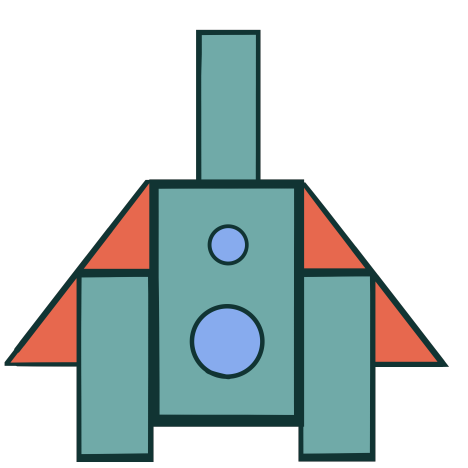
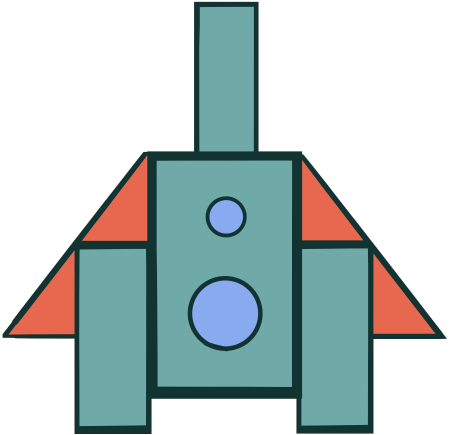
fixed scaling and other bugs

Changed region(s): [[0.0, 0.0, 0.9956, 1.0], [0.4044, 0.6276, 0.5911, 0.8368], [0.4356, 0.4483, 0.56, 0.5678]]

diff --git a/src/games/stardash/unit.ts b/src/games/stardash/unit.ts
@@ -64,41 +64,62 @@ export class Unit extends makeRenderable(GameObject, SHOULD_RENDER) {
         const jobContainer = new PIXI.Container();
         jobContainer.setParent(this.container);
 
-        this.shield = this.addSprite.shield();
-        this.shield.setParent(this.game.layers.game);
+        this.shield = this.addSprite.shield(
+            {
+
+                relativeScale: this.game.scaler * 105,
+                relativePivot: 0.5,
+            });
+        this.shield.setParent(this.game.layers.shield);
+        this.shield.tint = this.game.getPlayersColor(this.ownerID).rgbNumber();
+        this.shield.alpha = 0.6;
         this.shield.visible = false;
 
         if (state.job.id === "2") {
-            this.jobSprite = this.addSprite.corvette();
+            this.jobSprite = this.addSprite.corvette(
+                {
+                    relativePivot: 0.5,
+                });
         }
         else if (state.job.id === "3") {
-            this.jobSprite = this.addSprite.missleboat();
+            this.jobSprite = this.addSprite.missleboat(
+                {
+                    relativePivot: 0.5,
+                });
         }
         else if (state.job.id === "4") {
-            this.jobSprite = this.addSprite.martyr();
+            this.jobSprite = this.addSprite.martyr(
+                {
+                    relativePivot: 0.5,
+                });
             this.shield.visible = true;
             this.shield.x = this.container.x;
             this.shield.y = this.container.y;
         }
         else if (state.job.id === "5") {
-            this.jobSprite = this.addSprite.transport();
+            this.jobSprite = this.addSprite.transport(
+                {
+                    relativePivot: 0.5,
+                });
         }
         else if (state.job.id === "6") {
-            this.jobSprite = this.addSprite.miner();
+            this.jobSprite = this.addSprite.miner(
+                {
+                    relativePivot: 0.5,
+                });
         }
         else {
-            this.jobSprite = this.addSprite.test();
+            this.jobSprite = this.addSprite.test(
+                {
+                    relativePivot: 0.5,
+                });
         }
-        if (state.job.id === "5") {
-            this.jobSprite.scale.set(1 * .1, 1 * .1);
-        }
-        else {
-            this.jobSprite.scale.set(1 * .01, 1 * .01);
-        }
-
+        this.jobSprite.scale.x *= this.game.scaler * 20;
+        this.jobSprite.scale.y *= this.game.scaler * 20;
         const barContainer = new PIXI.Container();
         barContainer.setParent(this.container);
         barContainer.position.y -= 30;
+        barContainer.position.x -= 24;
         this.healthBar = new GameBar(barContainer, {
             max: state.job.energy,
             visibilitySetting: this.game.settings.displayHealthBars,
@@ -130,8 +151,6 @@ export class Unit extends makeRenderable(GameObject, SHOULD_RENDER) {
         super.render(dt, current, next, delta, nextDelta);
 
         // <<-- Creer-Merge: render -->>
-        // const shield = PIXI.Sprite.fromImage("resources/shield.png");
-        // shield.scale.set(1 * .1, 1 * .1);
         // render where the Unit is
         if (next.energy <= 0) {
             this.container.visible = false;
@@ -145,19 +164,16 @@ export class Unit extends makeRenderable(GameObject, SHOULD_RENDER) {
             ease(current.y, next.y, dt),
         );
 
-        if (next.shield > 0 || next.protector !== null) {
+        if (next.shield > 0) {
             this.shield.visible = true;
-            this.shield.x = this.container.x - 10;
-            this.shield.y = this.container.y - 20;
-            this.shield.scale.set(1 * .12, 1 * .12);
-            // this.shield.alpha = 0.05;
+            this.shield.x = this.container.x;
+            this.shield.y = this.container.y;
         }
         else {
             this.shield.visible = false;
         }
 
         this.healthBar.update(ease(current.energy, next.energy, dt));
-        // pixiFade(this.container, dt, current.energy, next.energy);
         // <<-- /Creer-Merge: render -->>
     }
 

diff --git a/src/games/stardash/game.ts b/src/games/stardash/game.ts
@@ -70,6 +70,8 @@ export class Game extends BaseGame {
 
     // <<-- Creer-Merge: variables -->>
     // You can add additional member variables here
+    /** THIS IS DOCUMENTATION */
+    public readonly scaler: number = 2;
     // <<-- /Creer-Merge: variables -->>
 
     // <<-- Creer-Merge: public-functions -->>
@@ -102,33 +104,32 @@ export class Game extends BaseGame {
 
         // <<-- Creer-Merge: start -->>
         // Initialize your variables here
-        this.resources.background.newSprite({
+        const back = this.resources.background.newSprite({
             container: this.layers.background,
-            width: this.renderer.width,
-            height: this.renderer.height,
         });
+        back.scale.x *= state.sizeX;
+        back.scale.y *= state.sizeY;
 
         this.resources.sun.newSprite({
             container: this.layers.background,
-            width: (state.bodies[2].radius * 2),
-            height: (state.bodies[2].radius * 1.5),
-            position: {x: state.bodies[2].x - 450, y: state.bodies[2].y - 270},
+            relativeScale: state.bodies[2].radius * this.scaler,
+            relativePivot: 0.5,
+            position: {x: state.bodies[2].x , y: state.bodies[2].y},
         });
 
         this.resources.earth_planet.newSprite({
             container: this.layers.background,
-            width: (state.bodies[1].radius * 3),
-            height: (state.bodies[1].radius * 2.25),
-            position: {x: state.bodies[1].x - 275 , y: state.bodies[1].y - 85},
+            relativePivot: 0.5,
+            relativeScale: state.bodies[1].radius * this.scaler,
+            position: {x: state.bodies[1].x , y: state.bodies[1].y},
         });
 
         this.resources.alien_planet.newSprite({
             container: this.layers.background,
-            width: (state.bodies[0].radius * 3),
-            height: (state.bodies[0].radius * 2.25),
-            position: {x: state.bodies[0].x - 175, y: state.bodies[0].y - 85},
+            relativeScale: state.bodies[0].radius * this.scaler,
+            relativePivot: 0.5,
+            position: {x: state.bodies[0].x, y: state.bodies[0].y},
         });
-
         // <<-- /Creer-Merge: start -->>
     }
 

diff --git a/src/games/stardash/body.ts b/src/games/stardash/body.ts
@@ -53,26 +53,35 @@ export class Body extends makeRenderable(GameObject, SHOULD_RENDER) {
         // You can initialize your new Body here.
         const bodiesContainer = new PIXI.Container();
         bodiesContainer.setParent(this.container);
-
         if (state.materialType === "genarium") {
-            this.bodiesSprite = this.addSprite.genarium();
-            this.bodiesSprite.scale.set(.02, .02);
+            this.bodiesSprite = this.addSprite.genarium(
+                {
+                    relativePivot: 0.5,
+                });
         }
         else if (state.materialType === "rarium") {
-            this.bodiesSprite = this.addSprite.rarium();
-            this.bodiesSprite.scale.set(.023, .023);
+            this.bodiesSprite = this.addSprite.rarium(
+                {
+                    relativePivot: 0.5,
+                });
         }
         else if (state.materialType === "legendarium") {
-            this.bodiesSprite = this.addSprite.legendarium();
-            this.bodiesSprite.scale.set(.027, .027);
+            this.bodiesSprite = this.addSprite.legendarium(
+                {
+                    relativePivot: 0.5,
+                });
         }
         else if (state.materialType === "mythicite") {
-            this.bodiesSprite = this.addSprite.mythicite();
-            this.bodiesSprite.scale.set(.04, .04);
+            this.bodiesSprite = this.addSprite.mythicite(
+                {
+                    relativePivot: 0.5,
+                });
         }
         else {
             this.bodiesSprite = this.addSprite.blank();
         }
+        this.bodiesSprite.scale.x *= state.radius * this.game.scaler;
+        this.bodiesSprite.scale.y *= state.radius * this.game.scaler;
         this.hasMoved = false;
         // <<-- /Creer-Merge: constructor -->>
     }
@@ -110,7 +119,6 @@ export class Body extends makeRenderable(GameObject, SHOULD_RENDER) {
            ease(current.x, next.x, dt),
            ease(current.y, next.y, dt),
         );
-        // render where the Body is
         // <<-- /Creer-Merge: render -->>
     }
 

diff --git a/src/games/stardash/projectile.ts b/src/games/stardash/projectile.ts
@@ -57,8 +57,12 @@ export class Projectile extends makeRenderable(GameObject, SHOULD_RENDER) {
         this.container.scale.set(1, 1);
         const jobContainer = new PIXI.Container();
         jobContainer.setParent(this.container);
-        this.jobSprite = this.addSprite.beam();
-        this.jobSprite.scale.set(1 * .1, 1 * .1);
+        this.jobSprite = this.addSprite.beam(
+            {
+                relativeScale: this.game.scaler * 5,
+            },
+        );
+        this.jobSprite.scale.set(.1, .1);
 
         // state.gameObjectName
         // <<-- /Creer-Merge: constructor -->>
@@ -83,6 +87,8 @@ export class Projectile extends makeRenderable(GameObject, SHOULD_RENDER) {
         nextDelta: Immutable<Delta>,
     ): void {
         super.render(dt, current, next, delta, nextDelta);
+        // <<-- Creer-Merge: render -->>
+        // render where the Projectile is
         if (next.energy <= 0) {
             this.container.visible = false;
 
@@ -93,8 +99,6 @@ export class Projectile extends makeRenderable(GameObject, SHOULD_RENDER) {
             ease(current.x, next.x, dt),
             ease(current.y, next.y, dt),
         );
-        // <<-- Creer-Merge: render -->>
-        // render where the Projectile is
         // <<-- /Creer-Merge: render -->>
 
     }

diff --git a/src/games/stardash/resources/index.ts b/src/games/stardash/resources/index.ts
@@ -5,9 +5,9 @@ export const GameResources = createResources("Stardash", {
     // <<-- Creer-Merge: resources -->>
     background: load("spacebackground.png"),
     test: load("test.png"),
-    sun: load("sun_1.png"),
-    earth_planet: load("earth.png"),
-    alien_planet: load("alien.png"),
+    sun: load("sun2.png"),
+    earth_planet: load("earth2.png"),
+    alien_planet: load("alien2.png"),
     corvette: load("corvette.png"),
     genarium: load("genarium.png"),
     rarium: load("rarium.png"),
@@ -17,7 +17,7 @@ export const GameResources = createResources("Stardash", {
     martyr: load("martyr.png"),
     missleboat: load("missleboat.png"),
     transport: load("transport.png"),
-    shield: load("newshield.png"),
+    shield: load("shield.png"),
     beam: load("beam.png"),
     // <<-- /Creer-Merge: resources -->>
 });
